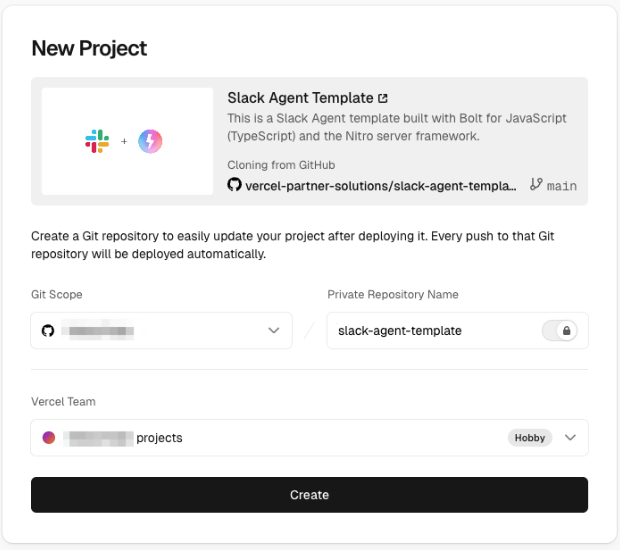
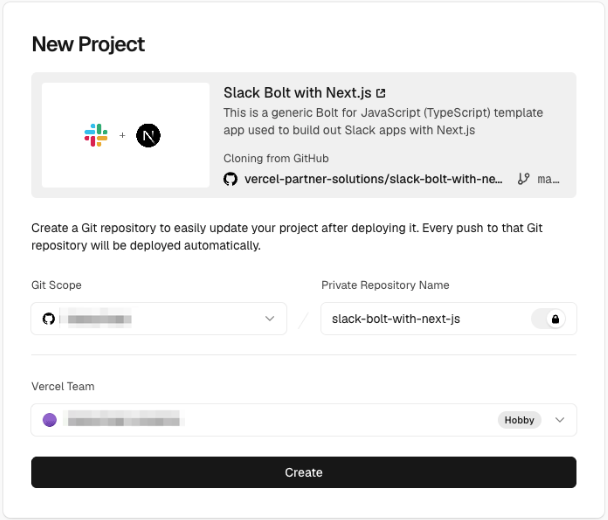
docs: update vercel template links (#3029)

diff --git a/docs/english/deployments/vercel/index.md b/docs/english/deployments/vercel/index.md
@@ -1,8 +1,8 @@
 # Deploying to Vercel
 
-This guide walks you through preparing and deploying a Slack app using Bolt for JavaScript, [Workflow DevKit's](https://useworkflow.dev/) `DurableAgent`, [AI SDK](https://ai-sdk.dev/) tools, the [Nitro](https://nitro.build/) server framework, and [Vercel](https://vercel.com/home).
+This guide walks you through preparing and deploying a Slack app using Bolt for JavaScript and [Vercel](https://vercel.com/home).
 
-When you’re finished, you’ll have this ⚡[Slack agent template](https://github.com/vercel-partner-solutions/slack-agent-template) to run, modify, and make your own.
+When you’re finished, you’ll have this ⚡[Slack agent template](https://github.com/vercel-labs/slack-bolt/tree/master/examples/nextjs) to run, modify, and make your own.
 
 ---
 
@@ -17,7 +17,7 @@ First things first, take a few moments to set up the following:
 
 Create a new Vercel project based on a Bolt for JavaScript template by clicking the button below.
 
-<Button label="Deploy with Vercel" link="https://vercel.com/new/clone?demo-description=This+is+a+Slack+Agent+template+built+with+Bolt+for+JavaScript+%28TypeScript%29+and+the+Nitro+server+framework.&demo-image=%2F%2Fimages.ctfassets.net%2Fe5382hct74si%2FSs9t7RkKlPtProrbDhZFM%2F0d11b9095ecf84c87a68fbdef6f12ad1%2FFrame__1_.png&demo-title=Slack+Agent+Template&demo-url=https%3A%2F%2Fgithub.com%2Fvercel-partner-solutions%2Fslack-agent-template&env=SLACK_SIGNING_SECRET%2CSLACK_BOT_TOKEN&envDescription=These+environment+variables+are+required+to+deploy+your+Slack+app+to+Vercel&envLink=https%3A%2F%2Fapi.slack.com%2Fapps&from=templates&project-name=Slack+Agent+Template&project-names=Comma+separated+list+of+project+names%2Cto+match+the+root-directories&repository-name=slack-agent-template&repository-url=https%3A%2F%2Fgithub.com%2Fvercel-partner-solutions%2Fslack-agent-template&root-directories=List+of+directory+paths+for+the+directories+to+clone+into+projects&skippable-integrations=1&teamSlug=vercel-partner-demo" />
+<Button label="Deploy with Vercel" link="https://vercel.com/new/clone?demo-description=This+is+a+generic+Bolt+for+JavaScript+%28TypeScript%29+template+app+used+to+build+out+Slack+apps+with+Next.js&demo-image=%2F%2Fimages.ctfassets.net%2Fe5382hct74si%2F1BL852bc5uyQQuswDrLggh%2F7f91aaaebace15775b982649b153354a%2FFrame.png&demo-title=Slack+Bolt+with+Next.js&demo-url=https%3A%2F%2Fgithub.com%2Fvercel-partner-solutions%2Fslack-bolt-with-nextjs&env=SLACK_SIGNING_SECRET%2CSLACK_BOT_TOKEN&envDescription=These+environment+variables+are+required+to+deploy+your+Slack+app+to+Vercel&envLink=https%3A%2F%2Fapi.slack.com%2Fapps&from=templates&project-name=Slack+Bolt+with+Next.js&project-names=Comma+separated+list+of+project+names%2Cto+match+the+root-directories&repository-name=slack-bolt-with-next-js&repository-url=https%3A%2F%2Fgithub.com%2Fvercel-partner-solutions%2Fslack-bolt-with-nextjs&root-directories=List+of+directory+paths+for+the+directories+to+clone+into+projects&skippable-integrations=1&teamSlug=haleychaas-projects" />
 
 You will then be prompted to select a Git provider. Select your preferred provider and log in. 
 
@@ -32,7 +32,7 @@ Keep this browser tab open; we'll be back to it soon. Next, we'll need to add a 
 Create a new Slack app through [this link](https://api.slack.com/apps?new_app=1), then select **from a manifest**. Next, choose a workspace you have permission to install apps in. Click **Next**, then copy and paste the project manifest code here, replacing the placeholder text in the **JSON** tab.
 
 ```js reference
-https://github.com/vercel-partner-solutions/slack-agent-template/blob/main/manifest.json
+https://github.com/vercel-partner-solutions/slack-bolt-with-next/blob/main/manifest.json
 ```
 
 Click **Next** and then **Create**.
